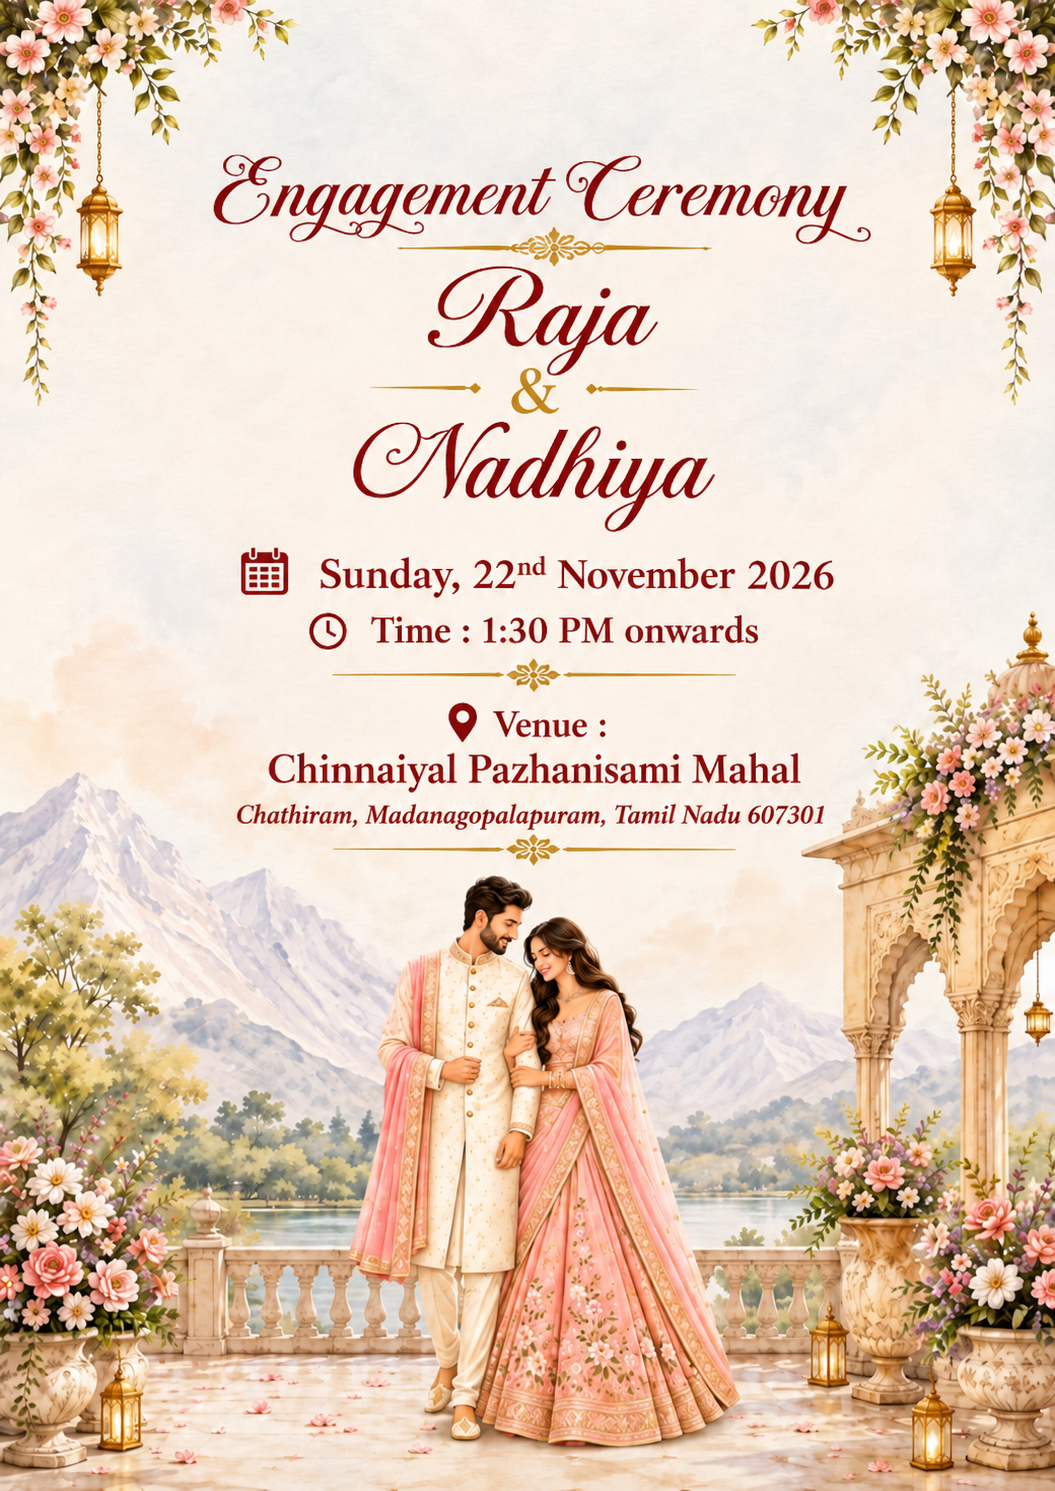
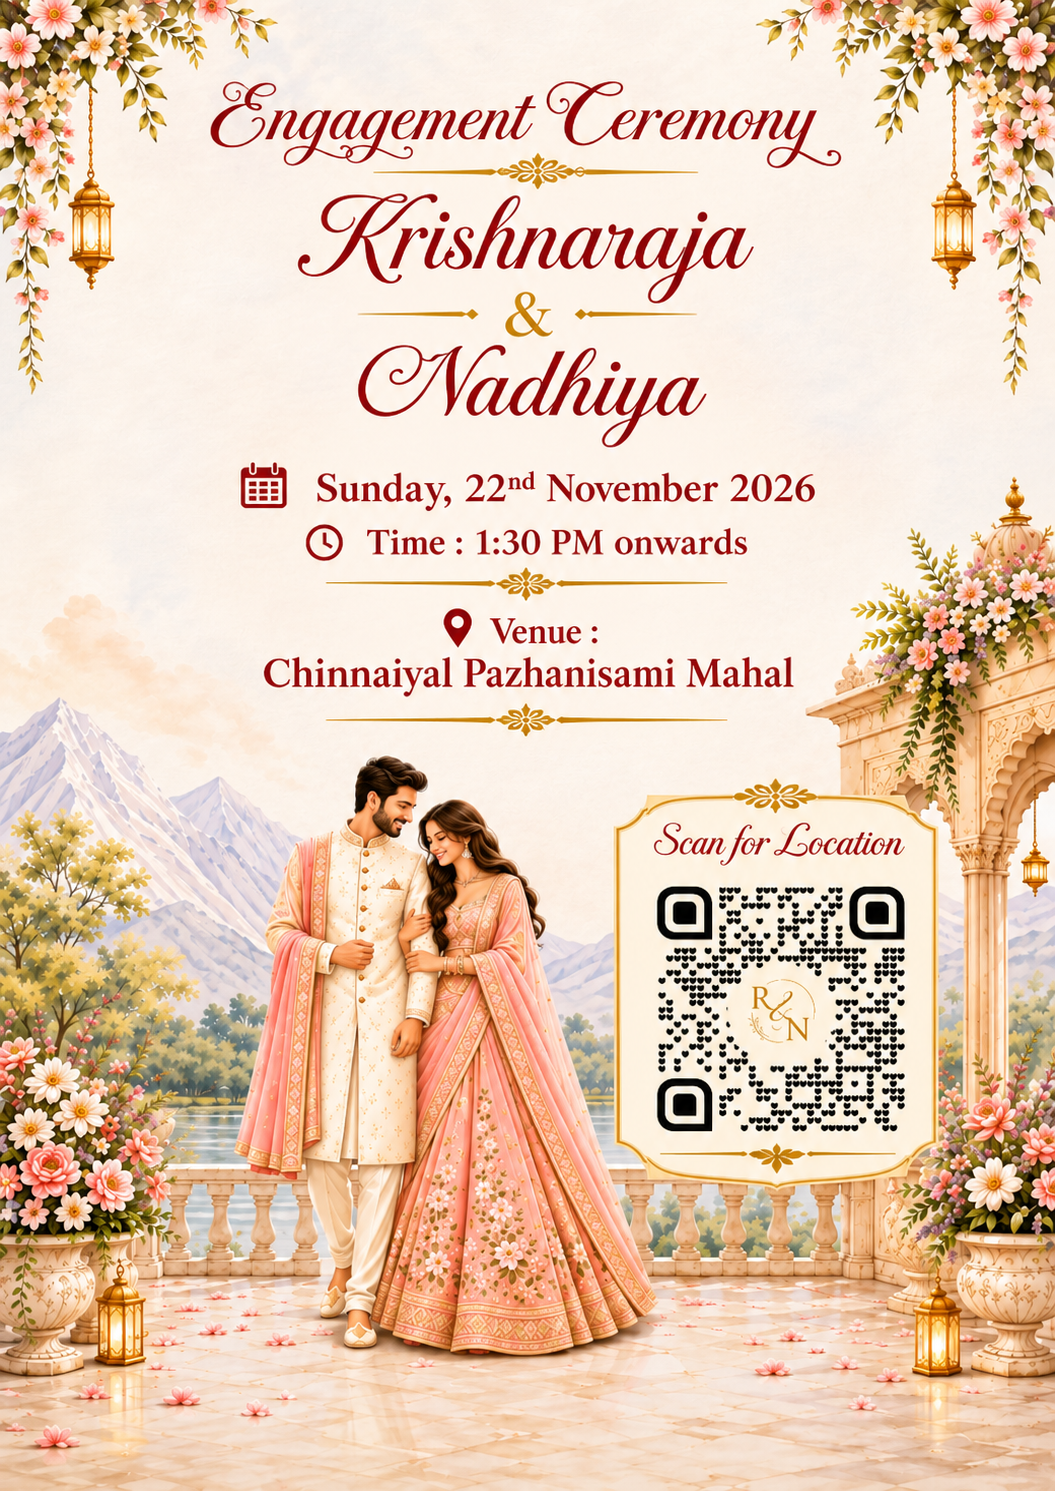
Updated the groom-name and qr

diff --git a/app/lib/eventData.ts b/app/lib/eventData.ts
@@ -1,10 +1,10 @@
 import type { SiteSettings } from "./types";
 
 export const DEFAULT_SITE_SETTINGS: SiteSettings = {
-  couple: "Raja & Nadhiya",
-  groom: "Raja",
+  couple: "Krishnaraja & Nadhiya",
+  groom: "Krishnaraja",
   bride: "Nadhiya",
-  title: "Engagement Ceremony — Raja & Nadhiya",
+  title: "Engagement Ceremony — Krishnaraja & Nadhiya",
   dateDisplay: "Sunday, 22 November 2026",
   dayDisplay: "Sunday",
   dateShort: "22 November 2026",
@@ -25,7 +25,7 @@ export const DEFAULT_SITE_SETTINGS: SiteSettings = {
     "May you always find peace and happiness in each other's arms. 🕊",
     "May your love grow warmer, deeper, and more faithful with every year. 🌸",
     "Here's to a married life that stays harmonious and strong forever. 🥂",
-    "Wishing Raja & Nadhiya a lifetime of deep joy, endless laughter, and true companionship. ✨",
+    "Wishing Krishnaraja & Nadhiya a lifetime of deep joy, endless laughter, and true companionship. ✨",
     "Two hearts, one soul. May your journey together be blessed with endless grace and happiness. 💍",
     "இனிய நிச்சயதார்த்த நல்வாழ்த்துகள்! உங்கள் வாழ்க்கை என்றும் அன்பும் மகிழ்ச்சியும் நிறைந்ததாக அமையட்டும். 🌺",
     "என்றும் இணைபிரியா தம்பதியராய் நூறாண்டு காலம் சீரோடும் சிறப்போடும் வாழ வாழ்த்துகிறோம்! 💐",
@@ -75,10 +75,10 @@ export function downloadCalendarInvite(settings: SiteSettings = DEFAULT_SITE_SET
   const ics = [
     "BEGIN:VCALENDAR",
     "VERSION:2.0",
-    "PRODID:-//Raja and Nadhiya//Engagement//EN",
+    "PRODID:-//Krishnaraja and Nadhiya//Engagement//EN",
     "CALSCALE:GREGORIAN",
     "BEGIN:VEVENT",
-    "UID:raja-nadhiya-engagement-20261122@celebration.local",
+    "UID:krishnaraja-nadhiya-engagement-20261122@celebration.local",
     "DTSTAMP:20260101T000000Z",
     "DTSTART:20261122T080000Z",
     "DTEND:20261122T113000Z",
@@ -93,7 +93,7 @@ export function downloadCalendarInvite(settings: SiteSettings = DEFAULT_SITE_SET
   const url = URL.createObjectURL(blob);
   const link = document.createElement("a");
   link.href = url;
-  link.download = "Raja-and-Nadhiya-Engagement.ics";
+  link.download = "Krishnaraja-and-Nadhiya-Engagement.ics";
   link.click();
   URL.revokeObjectURL(url);
 }

diff --git a/app/layout.tsx b/app/layout.tsx
@@ -8,15 +8,15 @@ export const viewport: Viewport = {
 };
 
 export const metadata: Metadata = {
-  title: "Raja & Nadhiya | Engagement Ceremony",
+  title: "Krishnaraja & Nadhiya | Engagement Ceremony",
   description:
-    "Join us as Raja and Nadhiya celebrate their engagement on Sunday, 22 November 2026 at Chinnaiyal Pazhanisami Mahal.",
+    "Join us as Krishnaraja and Nadhiya celebrate their engagement on Sunday, 22 November 2026 at Chinnaiyal Pazhanisami Mahal.",
   icons: {
     icon: "/rn-logo.png",
     apple: "/rn-logo.png",
   },
   openGraph: {
-    title: "Raja & Nadhiya — Engagement Ceremony",
+    title: "Krishnaraja & Nadhiya — Engagement Ceremony",
     description:
       "A celebration of love. Sunday, 22 November 2026 at 1:30 PM onwards · Chinnaiyal Pazhanisami Mahal.",
     images: ["/engagement-invitation.png"],

diff --git a/app/components/PhotoGallerySection.tsx b/app/components/PhotoGallerySection.tsx
@@ -238,7 +238,7 @@ export function PhotoGallerySection() {
           {/* Active Photo */}
           <img
             src={GALLERY_IMAGES[activeIdx]}
-            alt={`Raja & Nadhiya photo ${activeIdx + 1}`}
+            alt={`Krishnaraja & Nadhiya photo ${activeIdx + 1}`}
             style={{
               maxHeight: "min(68vh, 560px)",
               maxWidth: "calc(100% - 20px)",
@@ -506,7 +506,7 @@ export function PhotoGallerySection() {
                   >
                     <img
                       src={src}
-                      alt={`Raja & Nadhiya photo ${idx + 1}`}
+                      alt={`Krishnaraja & Nadhiya photo ${idx + 1}`}
                       className="h-full w-full object-cover"
                       loading={idx === 0 ? "eager" : "lazy"}
                       decoding="async"

diff --git a/app/components/GiftBoxSection.tsx b/app/components/GiftBoxSection.tsx
@@ -602,7 +602,7 @@ export function GiftBoxSection({ onNotify }: GiftBoxSectionProps) {
                       color: "#f2c06e",
                     }}
                   >
-                    Groom &bull; Raja
+                    Groom &bull; Krishnaraja
                   </span>
 
                   {/* QR Code Graphic Frame */}
@@ -630,7 +630,7 @@ export function GiftBoxSection({ onNotify }: GiftBoxSectionProps) {
                   {/* Save QR Button */}
                   <a
                     href="/assets/qr/groom_upi_qr.jpeg"
-                    download="raja_engagement_qr.jpeg"
+                    download="krishnarajaraja_engagement_qr.jpeg"
                     onClick={() => onNotify?.("Groom QR code downloaded!")}
                     style={{
                       marginTop: "14px",

diff --git a/app/components/AdminDashboard.tsx b/app/components/AdminDashboard.tsx
@@ -1648,7 +1648,7 @@ export function AdminDashboard({
                       height={400}
                       className="admin-asset-thumb"
                     />
-                    <span>Groom QR (Raja)</span>
+                    <span>Groom QR (Krishnaraja)</span>
                     <a
                       href="/assets/qr/groom_upi_qr.jpeg"
                       download="raja_engagement_qr.jpeg"

diff --git a/app/admin/page.tsx b/app/admin/page.tsx
@@ -10,7 +10,7 @@ import {
 export const dynamic = "force-dynamic";
 
 export const metadata: Metadata = {
-  title: "Admin Panel | Raja & Nadhiya Engagement",
+  title: "Admin Panel | Krishnaraja & Nadhiya Engagement",
   robots: { index: false, follow: false },
 };
 

diff --git a/app/components/InvitationCover.tsx b/app/components/InvitationCover.tsx
@@ -275,7 +275,7 @@ function FlowerParticleItem({ p }: { p: { type: string; size: number } }) {
 }
 
 export function InvitationCover({
-  groom = "Raja",
+  groom = "Krishnaraja",
   bride = "Nadhiya",
   dateDisplay = "Sunday, 22 November 2026",
   onOpen,
